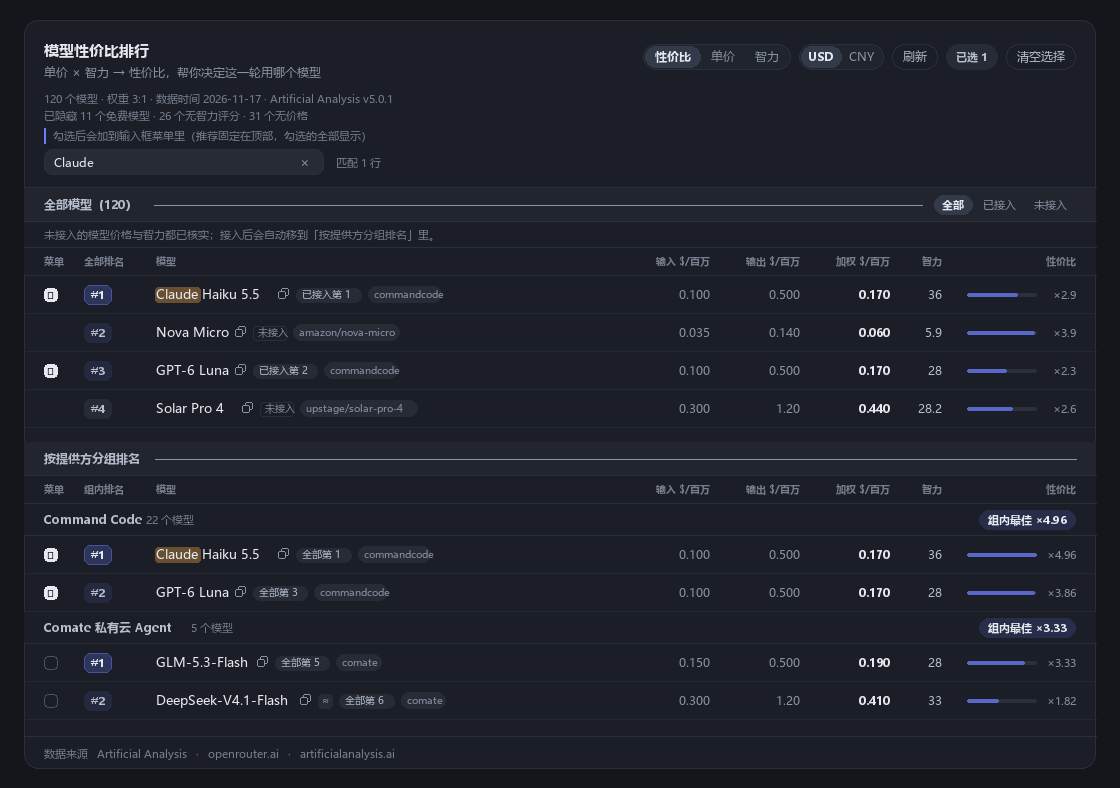
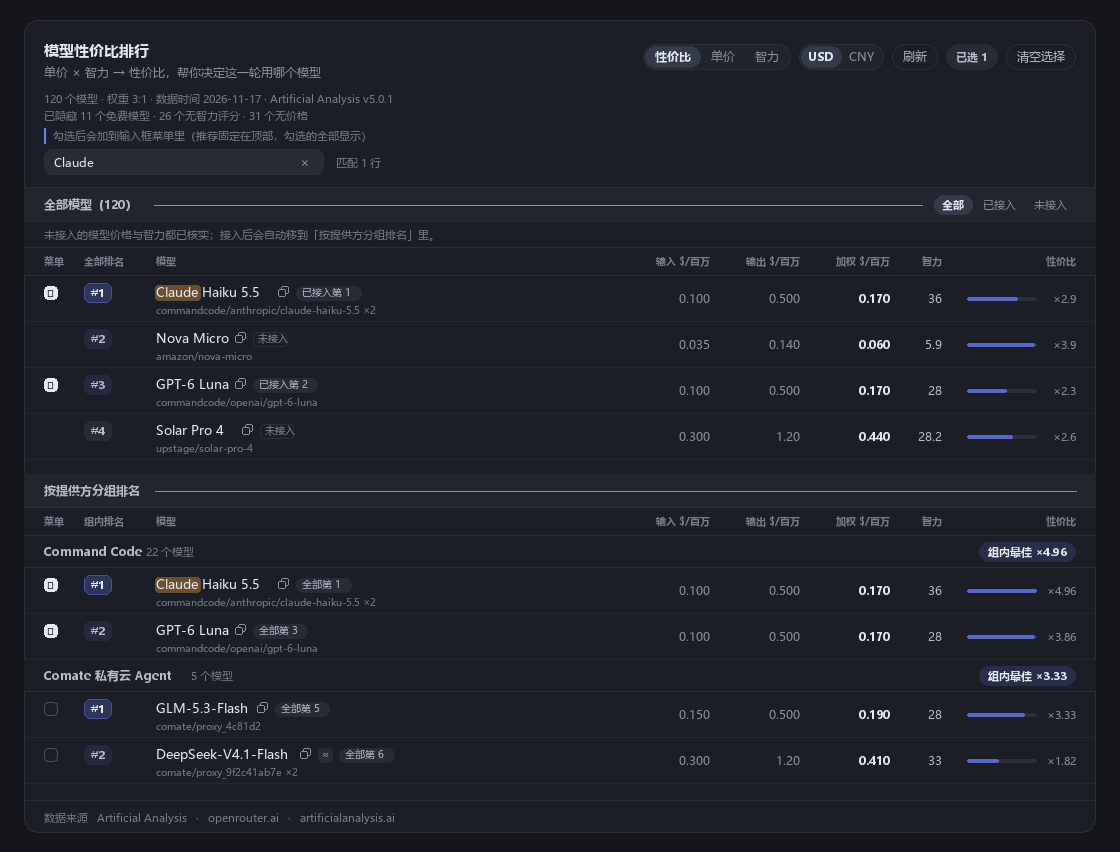
Rewrite the README: English primary, Chinese mirror, badges and screenshots

diff --git a/README.md b/README.md
@@ -1,42 +1,100 @@
 # dsh-model-value
 
-当前接入模型的**单价、智力、性价比**排行，长在选模型的地方：模型菜单顶部给出推荐行（末行可打开完整排行面板），另外给 Agent 一个 `model_value_rank` 工具。
+[![version](https://img.shields.io/github/package-json/v/znshmily/dsh-model-value)](https://github.com/znshmily/dsh-model-value)
+[![license](https://img.shields.io/github/license/znshmily/dsh-model-value)](./LICENSE)
+[![stars](https://img.shields.io/github/stars/znshmily/dsh-model-value)](https://github.com/znshmily/dsh-model-value/stargazers)
+[![dsh plugin](https://img.shields.io/badge/DeepSeek%20Harness-plugin-6b7cff)](https://github.com/deepseek-ai/deepseek-harness)
 
-- 价格与智力分随插件附带快照（USD / 1M tokens，Artificial Analysis Intelligence Index），**509 条价格键、176 个模型有分**（155 个 AA 实测 + 21 个按 HLE 折算，界面带 `≈`）。数据由 `tools/sync-sources.mjs` 从 [aiapiindex.com](https://aiapiindex.com) 公开镜像同步（AA 榜单 + OpenRouter 全量报价，CC BY 4.0），`tools/fill-gaps.mjs` 补齐镜像还没跟上的新模型。可在设置里手填覆盖，也能定时从 OpenRouter 拉最新报价。
-- 排名算法在 Host 侧完成，客户端只渲染；同一个接口 `/dsh-model-value/api/rank` 同时服务面板与工具。
-- 排行面板**共用一个滚动容器、分两块**：① **全部模型**——已接入的渠道实例与未接入的市面模型放在同一张表里、用同一套 `allRank` 名次（列头「全部排名」），默认「范围 = 全部」，标题条上的三个胶囊可以只看「已接入」或只看「未接入」（未接入的行没有勾选框，带「未接入」小胶囊；范围选「未接入」时整个列表都是未接入的，胶囊自动隐藏）；② **按提供方分组排名**——始终只列已接入的渠道，用组内名次（列头「组内排名」）。**两种名次都常驻显示**：排名列一个、模型名后面的胶囊一个（「已接入第 N」/「全部第 N」），不用悬停也能对照。每行的模型格是两行：第一行名字 + 胶囊，第二行灰字 **`提供方/模型ID`**（Comate 那种 `proxy_<hash>` 也照原样写出来，不再藏在 tooltip 里），可以选中复制。面板支持**按名搜索（只高亮不过滤，右侧显示匹配行数）**，每行还有一个**复制模型名**的按钮。两块各有吸顶表头，分组头也吸顶；只画同时有价格和智力分的模型，免费/缺分/缺价的只在表头统计个数。未接入的模型接入后下次刷新自动移到分组里。
-- 排行面板每行可**按渠道勾选**模型（同一模型多接入各算一行，勾一个不连带其他渠道）；勾选的模型全部追加在模型菜单 Top 3 之后（带 ★，列表高度固定约 4 行，超出在块内滚动并提示「共 N 行」），未勾选时菜单就是 Top 3 推荐；清单持久化在插件 host 端 `state.json`，全局生效。菜单每一行只有**名次 + 完整模型名 + 提供方**（`commandcode`，同一模型多渠道时是 `comate ×2`）——名字换行显示不截断，整个菜单没有 tooltip；价格与智力在排行面板里看。
-- 只使用 `--dsw-alias-*` 主题令牌，不引入任何 Harness 客户端包。明暗主题都做了适配：强调色只用来**调色**（`color-mix` 半透明着色），从不做"实心品牌色 + 固定白字"的底色；勾选框自己画（原生 checkbox 在深色页面会画成白方块），所以任何主题下都不会出现白底白字或白框。
+**English** · [中文](./README.zh.md)
 
-完整说明见 [docs/DETAIL.md](docs/DETAIL.md)。
+Know what a model costs before you pick it. This plugin ranks every model your DeepSeek Harness host already has by **unit price**, **intelligence**, and **value for the money** — and puts the answer where you actually choose a model: the composer's model menu.
 
-## 开发
+| Composer model menu | Ranking panel |
+| --- | --- |
+| <img src="assets/screenshot-menu.png" width="380" alt="Model menu with the best-value picks, each row showing the model name and its provider"> | <img src="docs/preview.svg" width="560" alt="Ranking panel: all models in one table, then the same models grouped by provider"> |
 
-```bash
-node test/units.mjs      # 键匹配、加权单价、排序分组、组内排名、市面块、payload、pins、工具与切换接口
-node test/client.mjs     # 无头渲染真实的 client bundle（12 个场景）
+## What it does
+
+- **Best-value picks in the model menu.** Three rows above the list, one per distinct model, picked by value. Pinned models follow with a ★. One click switches the session.
+- **A ranking panel with two questions on one page.** "Which model is worth it overall?" and "Which model is worth it on *this* provider?" — the same table, two numberings.
+- **Models you have not connected yet.** Priced and scored market models are listed alongside, ranked on the same scale, so you can see what a different provider would buy you.
+- **An agent tool.** `model_value_rank` returns the same data to the model itself, so it can ask "what is cheap and good right now?" before choosing.
+
+## Install
+
+```sh
+dsh plugin add dsh-model-value                     # npm
+dsh plugin add github:znshmily/dsh-model-value     # GitHub source
+```
+
+Or from the **Plugins** page of the DSH Desktop app / the Discover tab of the plugin market. A local checkout installs with the plugin manager (`install_bundle <path>`) — never edit the profile's `package.json` or `cordis.patch.yml` by hand.
+
+Reload the session (or refresh the page) afterwards: the model menu gains a "★ Top 3 by value" block whose last row opens the full ranking.
+
+## Using it
+
+**The menu** answers one question — *which channel's which model do I switch to*. Each row is a rank, the full model name (it wraps rather than truncates), and the provider that would serve it. Price and intelligence live in the panel; nothing is hidden behind a tooltip.
+
+**The panel** has two blocks in one scroll container:
+
+- **All models (N)** — connected channels and market models in a single table with one numbering. The scope chips narrow it to connected or not-connected; the title and count follow.
+- **By provider** — the connected channels again, each with its own 1..N ranking, because "best on this provider" and "best overall" are different questions.
+
+Both numberings stay visible: the rank column shows the one the table is sorted by, and a pill next to the name spells out the other. Headers and group titles stick while you scroll. The model cell is two lines — the name with its pills, then the raw `provider/model` id, which you can select and copy (that is where a provider's opaque `proxy_<hash>` shows up). A **name search** highlights matches without filtering anything, so ranks, order and checkboxes stay put. Every text is selectable, and each row has a copy button for the model name.
+
+**Pinning** a row (the checkbox column) adds that channel's model to the menu after the Top 3. Pins are per channel instance — the same underlying model on two providers is two rows, and ticking one does not tick the other. The list is global and persists in the Host's `state.json`.
+
+## How the ranking is computed
+
+Everything runs on the Host; the client only renders. Both the panel and the tool read one endpoint, `/dsh-model-value/api/rank`.
+
+```
+effectiveInput = input × (1 − cacheHitShare) + cacheRead × cacheHitShare
+blended        = effectiveInput × wIn + output × wOut        (weights normalised, default 3:1)
+value          = intelligence / blended                      (index points per $/M tokens)
+```
+
+- `cacheRead` only applies to models with a published cache price; the rest pay full input. `cacheHitShare` defaults to 0.5.
+- Weights default to 3:1 input:output — coding sessions read far more than they write. Both zero falls back to 1:1.
+- **Free, unpriced and unscored models are not ranked.** A free model has no finite value, and a missing score is not a low score; they are counted in the header line instead of being sorted next to real numbers.
+- `≈` on a price or a score means it was **derived** (inherited from the base serving tier, or from the parent model) rather than published. Hovering the badge says where it came from.
+- The value bar is normalised to the median of its own table, so `×4.96` reads as "about five times the median value **here**" — the two blocks have separate medians and are not comparable to each other.
+
+## Configuration
+
+Settings → Plugins → Plugins configuration → **Model value** (`weightInput`, `weightOutput`, `cacheHitShare`, `currency`, `fx`, `includeFree`, `onlineRefresh`, `overridesJson`).
+
+| Field | Default | What it does |
+| --- | --- | --- |
+| `weightInput` / `weightOutput` | `3` / `1` | Input:output weights of the blended price. |
+| `cacheHitShare` | `0.5` | Share of input tokens billed at the cache-read price. |
+| `currency` / `fx` | `USD` / `7.2` | Display currency; the table itself is stored in USD per million tokens. |
+| `includeFree` | `true` | Show zero-price replicas as their own group. |
+| `onlineRefresh` | `true` | Pull live prices from OpenRouter; failures fall back to the bundled snapshot silently. |
+| `overridesJson` | `""` | Hand overrides, e.g. `{"models":{"vendor/model":{"input":0.3,"output":1.2}},"scores":{"vendor/model":48}}`. |
+
+## Data
+
+Bundled snapshot: **509 price entries** and **176 intelligence scores** (155 measured, 21 derived) from the **Artificial Analysis Intelligence Index v5.0.1**, prices as of **2026-11-17**.
+
+- Prices: the OpenRouter catalogue; intelligence: Artificial Analysis, via the public [aiapiindex.com](https://aiapiindex.com) mirror (CC BY 4.0). `tools/sync-sources.mjs` re-syncs, `tools/fill-gaps.mjs` covers models the mirror has not caught up with.
+- `tools/seed-market.mjs` regenerates the market-model seed used by the panel.
+- The only outbound request the plugin makes is the optional OpenRouter price refresh. There is no telemetry, and no data leaves your machine otherwise.
+
+Snapshot data can be wrong, and providers change prices without notice — treat the numbers as a shopping aid, not a bill.
+
+## Development
+
+```sh
+node test/units.mjs      # key matching, blended price, sorting, groups, payload, pins, tool, select route
+node test/client.mjs     # headless render of the real client bundle (12 scenarios)
 node --check index.js && node --check client.js
 ```
 
-数据文件在 `data/prices.json`、`data/intelligence.json`；`tools/seed-market.mjs` 是补市面模型数据的一次性生成脚本（改完跑一次，两个 JSON 会按 key 排序重写）；`tools/preview.py` 用和样式表相同的几何画出 `docs/preview.svg`，`tools/preview_menu.py` 画出输入框菜单预览——两者都接受一个 PNG 输出路径参数；`assets/screenshot-*.png` 由这两个脚本生成，`screenshots.json` 把它们声明给插件市场；`tools/make_icon.py` 按 `icon.svg` 的同一份几何画出市场卡片要的位图 `assets/icon-180.png`（市场只收 GitHub 托管的 png/jpg/webp，不收 svg）；`vendor/` 里是随包携带的 Schemastery（裸导入 `@deepseek-ai/schemastery` 在 profile 外无法解析）。
+The panel and menu previews are drawn from the same geometry the stylesheet declares, so documentation cannot drift from the UI: `tools/preview.py` → `docs/preview.svg`, `tools/preview_menu.py` → the menu image, `tools/make_icon.py` → the storefront icon (the markets take raster images, not SVG). `screenshots.json` declares the images to the plugin market. `vendor/` carries the Schemastery build, because a bare import of `@deepseek-ai/schemastery` does not resolve from a plugin linked in from outside the profile.
 
-## 安装
+Full notes, including the layout and theme invariants the tests guard: [docs/DETAIL.md](./docs/DETAIL.md).
 
-从 marketplace / 命令行装（推荐）：
+## License
 
-```sh
-dsh plugin add dsh-model-value                                      # npm 包
-dsh plugin add github:znshmily/dsh-model-value                      # GitHub 源
-```
-
-在 DSH 里用插件管理器装本地目录（开发时用；不要手改 profile 的 `package.json` / `cordis.patch.yml`）：
-
-```
-plugin_manager install_bundle <path-to-this-directory>
-```
-
-安装后重启会话/刷新页面：模型菜单（`/model`）里出现"★ 性价比 Top 3"，最后一行"查看完整排行"进入明细表。
-
-## 许可证
-
-MIT © [znshmily](https://github.com/znshmily)。见 [LICENSE](./LICENSE)。
+MIT © [znshmily](https://github.com/znshmily). See [LICENSE](./LICENSE).

diff --git a/README.zh.md b/README.zh.md
@@ -1,0 +1,100 @@
+# dsh-model-value
+
+[![version](https://img.shields.io/github/package-json/v/znshmily/dsh-model-value)](https://github.com/znshmily/dsh-model-value)
+[![license](https://img.shields.io/github/license/znshmily/dsh-model-value)](./LICENSE)
+[![stars](https://img.shields.io/github/stars/znshmily/dsh-model-value)](https://github.com/znshmily/dsh-model-value/stargazers)
+[![dsh plugin](https://img.shields.io/badge/DeepSeek%20Harness-plugin-6b7cff)](https://github.com/deepseek-ai/deepseek-harness)
+
+[English](./README.md) · **中文**
+
+选模型之前，先知道它要花多少钱。这个插件给当前 DSH 里已接入的每个模型排名 —— **单价**、**智力**、**性价比** —— 并且把答案放在你真正做选择的地方：输入框上方的模型菜单。
+
+| 模型菜单 | 排行面板 |
+| --- | --- |
+| <img src="assets/screenshot-menu.png" width="380" alt="模型菜单：性价比前三 + 勾选的模型，每行是名字和提供方"> | <img src="docs/preview.svg" width="560" alt="排行面板：全部模型一张榜，然后按提供方分组"> |
+
+## 它做了什么
+
+- **模型菜单里的性价比推荐**：列表上方三行，每行一个不同的模型，按性价比挑出来；你在面板里勾选的模型带 ★ 跟在后面。点一下就把当前会话切过去。
+- **一张回答两个问题的面板**：「整体上哪个模型划算」和「在这个渠道上哪个划算」——同一张表，两套名次。
+- **还没接入的模型也在榜上**：市面模型的价格与智力都已核实，用同一套名次排进去，你能直接看出换个渠道能换来什么。
+- **给 Agent 的工具**：`model_value_rank` 把同一份数据交给模型自己，让它在选模型之前先问一句「现在什么又便宜又能打」。
+
+## 安装
+
+```sh
+dsh plugin add dsh-model-value                     # npm 包
+dsh plugin add github:znshmily/dsh-model-value     # GitHub 源
+```
+
+也可以在 DSH Desktop 的 **插件** 页、或插件市场的「发现」页里装。本地目录用插件管理器安装（`install_bundle <path>`）——不要手改 profile 的 `package.json` / `cordis.patch.yml`。
+
+装完重启会话（或刷新页面）：模型菜单顶部会出现「★ 性价比 Top 3」，最后一行「查看完整排行」进入完整面板。
+
+## 怎么用
+
+**菜单**只回答一件事——*切到哪个渠道的哪个模型*。每行是名次、完整模型名（太长就换行，不截断）和会为你服务的提供方。价格与智力在面板里看，没有任何信息藏在悬停提示后面。
+
+**面板**是一个滚动容器里的两块：
+
+- **全部模型（N）**：已接入的渠道实例与市面模型放在同一张表里、共用一个名次。标题条上的范围胶囊可以只看「已接入」或「未接入」，标题和计数跟着变。
+- **按提供方分组排名**：已接入的渠道各自 1..N 排名，因为「这个渠道上哪个最划算」和「整体哪个最划算」是两个问题。
+
+两套名次都常驻可见：排名列显示当前排序依据的那个，名字旁边的胶囊写出另一个。表头和分组标题在滚动时吸顶。模型格是两行——名字加胶囊，然后是原始的 `提供方/模型ID`，可以选中复制（Comate 那种 `proxy_<hash>` 就显示在这里）。**按名搜索**只高亮、不过滤，名次、顺序、勾选状态都不变。所有文字都可以选中，每行还有复制模型名的按钮。
+
+**勾选**一行（最左列）会把这个渠道的模型加到菜单 Top 3 之后。勾选粒度是渠道实例——同一个底层模型在两个渠道上是两行，勾一个不会连带另一个。清单是全局的，存在 Host 的 `state.json`。
+
+## 排名怎么算
+
+全部在 Host 侧计算，客户端只负责渲染；面板和工具读同一个接口 `/dsh-model-value/api/rank`。
+
+```
+effectiveInput = 输入价 × (1 − 缓存命中占比) + 缓存读价 × 缓存命中占比
+加权单价        = effectiveInput × 输入权重 + 输出价 × 输出权重   （权重归一，默认 3:1）
+性价比          = 智力分 / 加权单价                              （每 $/百万 token 的分数）
+```
+
+- 缓存读价只对收录了缓存价的模型生效，其余按全额输入价计；`cacheHitShare` 默认 0.5。
+- 权重默认输入:输出 = 3:1 —— 编码会话读远多于写。两者都为 0 时按 1:1 处理。
+- **免费、缺价格、缺智力的模型不参与排名**：免费模型没有有限的性价比，缺分也不等于分低，它们在表头那行被统计出来，而不是混进真实数字里排序。
+- 价格或智力上的 `≈` 表示这个数字是**推算**的（继承基础服务档的价格，或取自父模型），悬停胶囊会说明来源。
+- 性价比进度条按所在榜单的中位数归一，所以 `×4.96` 的意思是「大约是这里中位数的 5 倍」，两块各有各的中位数，互不可比。
+
+## 配置
+
+设置 → 插件 → 插件配置 → **模型性价比**（`weightInput`、`weightOutput`、`cacheHitShare`、`currency`、`fx`、`includeFree`、`onlineRefresh`、`overridesJson`）。
+
+| 字段 | 默认值 | 作用 |
+| --- | --- | --- |
+| `weightInput` / `weightOutput` | `3` / `1` | 加权单价里输入、输出的权重。 |
+| `cacheHitShare` | `0.5` | 输入 token 里按缓存读价计费的比例。 |
+| `currency` / `fx` | `USD` / `7.2` | 显示货币；价格表本身以美元/百万 token 存储。 |
+| `includeFree` | `true` | 把零价副本单独成组显示。 |
+| `onlineRefresh` | `true` | 向 OpenRouter 拉在线报价；失败时静默回退到内置快照。 |
+| `overridesJson` | `""` | 手工覆盖，例如 `{"models":{"vendor/model":{"input":0.3,"output":1.2}},"scores":{"vendor/model":48}}`。 |
+
+## 数据
+
+内置快照：**509 条价格**、**176 个智力分**（155 个实测 + 21 个推算），来自 **Artificial Analysis Intelligence Index v5.0.1**，价格截止 **2026-11-17**。
+
+- 价格取自 OpenRouter 目录，智力分来自 Artificial Analysis，经公开镜像 [aiapiindex.com](https://aiapiindex.com) 同步（CC BY 4.0）。`tools/sync-sources.mjs` 重新同步，`tools/fill-gaps.mjs` 补齐镜像还没跟上的新模型。
+- `tools/seed-market.mjs` 重新生成面板用的市面模型种子数据。
+- 插件唯一的对外请求是可选的 OpenRouter 报价刷新。没有埋点，除此之外没有任何数据离开你的机器。
+
+快照数据可能出错，供应商也会不打招呼就调价 —— 把它当购物参考，不要当作账单依据。
+
+## 开发
+
+```sh
+node test/units.mjs      # 键匹配、加权单价、排序分组、组内名次、payload、pins、工具与切换接口
+node test/client.mjs     # 无头渲染真实的 client bundle（12 个场景）
+node --check index.js && node --check client.js
+```
+
+面板与菜单的预览图按样式表声明的同一份几何绘制，所以文档不会和 UI 走偏：`tools/preview.py` → `docs/preview.svg`，`tools/preview_menu.py` → 菜单图，`tools/make_icon.py` → 市场卡片图标（市场只收位图，不收 SVG）。`screenshots.json` 把图片声明给插件市场。`vendor/` 里是随包携带的 Schemastery：从 profile 外链入的插件裸导入 `@deepseek-ai/schemastery` 无法解析。
+
+包含布局与主题约束细节的完整说明见 [docs/DETAIL.md](./docs/DETAIL.md)。
+
+## 许可证
+
+MIT © [znshmily](https://github.com/znshmily)。见 [LICENSE](./LICENSE)。
